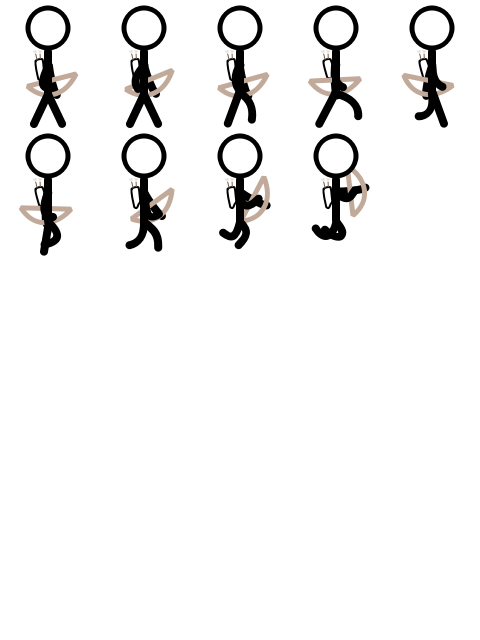
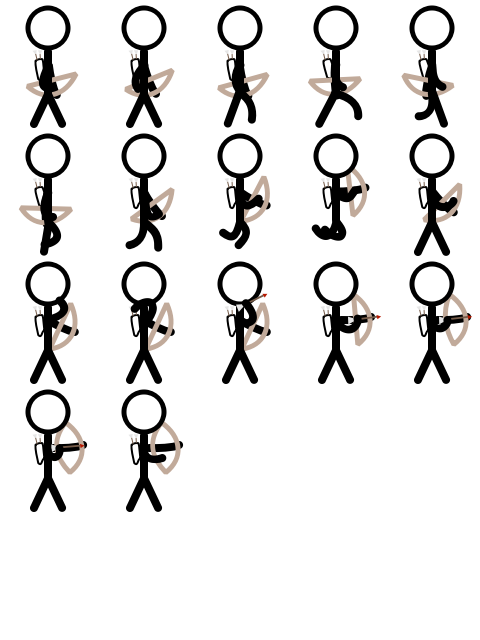
swordfighter special, archer attack anim

diff --git a/Lucky Fighters/Lucky_Fighters/SwordFighter.cs b/Lucky Fighters/Lucky_Fighters/SwordFighter.cs
@@ -22,6 +22,8 @@ namespace Lucky_Fighters
 
         private const float SpecialAttackCooldown = 2f;
         private const float SpecialAttackDamage = 25f;
+        private const float SpecialAttackForeswing = .3f;
+        private const float SpecialAttackBackswing = .3f;
 
 
 		public SwordFighter(Map map, Vector2 start, PlayerIndex playerIndex, int teamId) : base(map, start, 1f, 96, 128, 5, "swordfightersheet", playerIndex, teamId)
@@ -34,6 +36,7 @@ namespace Lucky_Fighters
             SpriteAnimations.Add("Attacking", new Animation(new int[] { 9, 10, 12, 11, 13, 13 }, 30, false));
             SpriteAnimations.Add("Blocking", new Animation(new int[] { 14, 15 }, 10, false));
             SpriteAnimations.Add("Hurt", new Animation(new int[] { 16, 17 }, 10, false));
+            SpriteAnimations.Add("SpecialAttacking", new Animation(new int[] { 18, 19, 20, 20, 21, 22, 23, 24 }, 18, false));
         }
 
         public override void Attack()
@@ -65,7 +68,6 @@ namespace Lucky_Fighters
 			);
 
             AttackCooldown = BasicAttackCooldown;
-            Console.WriteLine("Used Attack");
         }
 
         public override void SpecialAttack()
@@ -73,27 +75,28 @@ namespace Lucky_Fighters
             if (SpecialCooldown > 0f || attacking) return;
 
             attacking = true;
-            SetAndPlayAnimation("Attacking"); // TODO Add special attack animation?
+            SetAndPlayAnimation("SpecialAttacking");
 
-            AddTask(
-                new Task(.3f, () =>
-                    {
-                        var specialAttackHitbox =
-                            GetAdjustedAttackHitbox(new Rectangle(Hitbox.Width / 3, -150, 100, 140));
-                        foreach (var otherPlayer in Map.GetCollidingPlayers(specialAttackHitbox)
-                                     .Where(otherPlayer => !IsPlayerFriendly(otherPlayer)))
-                        {
-                            otherPlayer.TakeDamage(SpecialAttackDamage);
-                        }
+            AddTask(new Task(SpecialAttackForeswing, () =>
+            {
+                var specialAttackHitbox =
+                    GetAdjustedAttackHitbox(new Rectangle(Hitbox.Width / 3, -150, 100, 140));
+                foreach (var otherPlayer in Map.GetCollidingPlayers(specialAttackHitbox)
+                    .Where(otherPlayer => !IsPlayerFriendly(otherPlayer)))
+                {
+                    otherPlayer.TakeDamage(SpecialAttackDamage);
+                }
 
-                        attackRectangle = specialAttackHitbox;
-                        
-                    }
-                ).Then(.3f, () => { attackRectangle = new Rectangle(); attacking = false; }));
-
+                //attackRectangle = specialAttackHitbox;
+            })
+            .Then(SpecialAttackBackswing, () =>
+            {
+                attacking = false;
+                //attackRectangle = new Rectangle();
+            })
+            );
 
             SpecialCooldown = SpecialAttackCooldown;
-            Console.WriteLine("Used Special Attack");
         }
 
         public override void Ultimate()
@@ -101,14 +104,12 @@ namespace Lucky_Fighters
             // TODO implement
             if (Luck < 100f)
                 return;
-
-            Console.WriteLine("Used Ultimate");
         }
 
         public override void Draw(SpriteBatch spriteBatch, GameTime gameTime)
         {
             base.Draw(spriteBatch, gameTime);
-            spriteBatch.Draw(blank, attackRectangle, new Color(1, 0, 0, .5f));
+            //spriteBatch.Draw(blank, attackRectangle, new Color(1, 0, 0, .5f));
         }
     }
 }

diff --git a/Lucky Fighters/Lucky_Fighters/Player.cs b/Lucky Fighters/Lucky_Fighters/Player.cs
@@ -233,9 +233,6 @@ namespace Lucky_Fighters
             // Player receives some luck from taking damage
             IncrementLuck(damage * LuckPerDamageTaken);
 
-            Console.WriteLine("Took " + damage + " damage");
-
-
             return damage;
         }
 
@@ -299,7 +296,6 @@ namespace Lucky_Fighters
             if (blockingCooldown > 0f)
                 return;
 
-            Console.WriteLine("Blocked");
             blockingTime = BlockDuration;
             blockingCooldown = BlockCooldown;
             SetAndPlayAnimation("Blocking");
@@ -313,7 +309,6 @@ namespace Lucky_Fighters
             if (dodgingCooldown > 0f)
                 return;
 
-            Console.WriteLine("Dodged");
             dodgingTime = DodgeDuration;
             dodgingCooldown = DodgeCooldown;
         }
@@ -364,12 +359,14 @@ namespace Lucky_Fighters
                     SendJump();
                 }
 
-                if (gamePad.Buttons.X == ButtonState.Pressed && oldGamePad.Buttons.X == ButtonState.Released)
+                if (gamePad.Buttons.X == ButtonState.Pressed && oldGamePad.Buttons.X == ButtonState.Released ||
+                    playerIndex == PlayerIndex.One && kb.IsKeyDown(Keys.W) && oldKb.IsKeyUp(Keys.W))
                 {
                     Attack();
                 }
 
-                if (gamePad.Buttons.B == ButtonState.Pressed && oldGamePad.Buttons.B == ButtonState.Released)
+                if (gamePad.Buttons.B == ButtonState.Pressed && oldGamePad.Buttons.B == ButtonState.Released ||
+                    playerIndex == PlayerIndex.One && kb.IsKeyDown(Keys.S) && oldKb.IsKeyUp(Keys.S))
                 {
                     SpecialAttack();
                 }
@@ -406,6 +403,8 @@ namespace Lucky_Fighters
 
             // the following animations play until finished (all the time)
             if (currentAnim == "Attacking" && SpriteAnimations[currentAnim].IsPlaying)
+                return;
+            if (currentAnim == "SpecialAttacking" && SpriteAnimations[currentAnim].IsPlaying)
                 return;
 
             if (currentAnim == "Blocking" && IsBlocking)

diff --git a/Lucky Fighters/Lucky_Fighters/Archer.cs b/Lucky Fighters/Lucky_Fighters/Archer.cs
@@ -14,6 +14,11 @@ namespace Lucky_Fighters
 {
     class Archer : Player
     {
+        private const float BasicAttackCooldown = .8f;
+        private const float BasicAttackForeswing = .55f;
+        private const float BasicAttackDamage = 15f;
+        private const float BasicAttackBackswing = .1f;
+
         public Archer(Map map, Vector2 start, PlayerIndex playerIndex, int teamId) : base(map, start, 1f, 96, 128, 5, "archersheet", playerIndex, teamId)
         {
             attacking = false;
@@ -21,21 +26,39 @@ namespace Lucky_Fighters
             SpriteAnimations.Add("Running", new Animation(new int[] { 2, 3, 4, 5 }, 14, true));
             SpriteAnimations.Add("Sprinting", new Animation(new int[] { 2, 3, 4, 5 }, 18, true));
             SpriteAnimations.Add("Jumping", new Animation(new int[] { 6, 7, 8 }, 10, false));
+            SpriteAnimations.Add("Attacking", new Animation(new int[] { 9, 10, 11, 12, 13, 13, 14, 15, 16 }, 16, false));
         }
 
         public override void Attack()
         {
-            throw new NotImplementedException();
+            if (SpecialCooldown > 0f || attacking) return;
+
+            attacking = true;
+            SetAndPlayAnimation("Attacking");
+
+            AddTask(new Task(BasicAttackForeswing, () =>
+            {
+
+            })
+            .Then(BasicAttackBackswing, () =>
+            {
+                attacking = false;
+            })
+            );
+
+            AttackCooldown = BasicAttackCooldown;
         }
 
         public override void SpecialAttack()
         {
-            throw new NotImplementedException();
+            // TODO implement
         }
 
         public override void Ultimate()
         {
-            throw new NotImplementedException();
+            // TODO implement
+            if (Luck < 100f)
+                return;
         }
     }
 }
